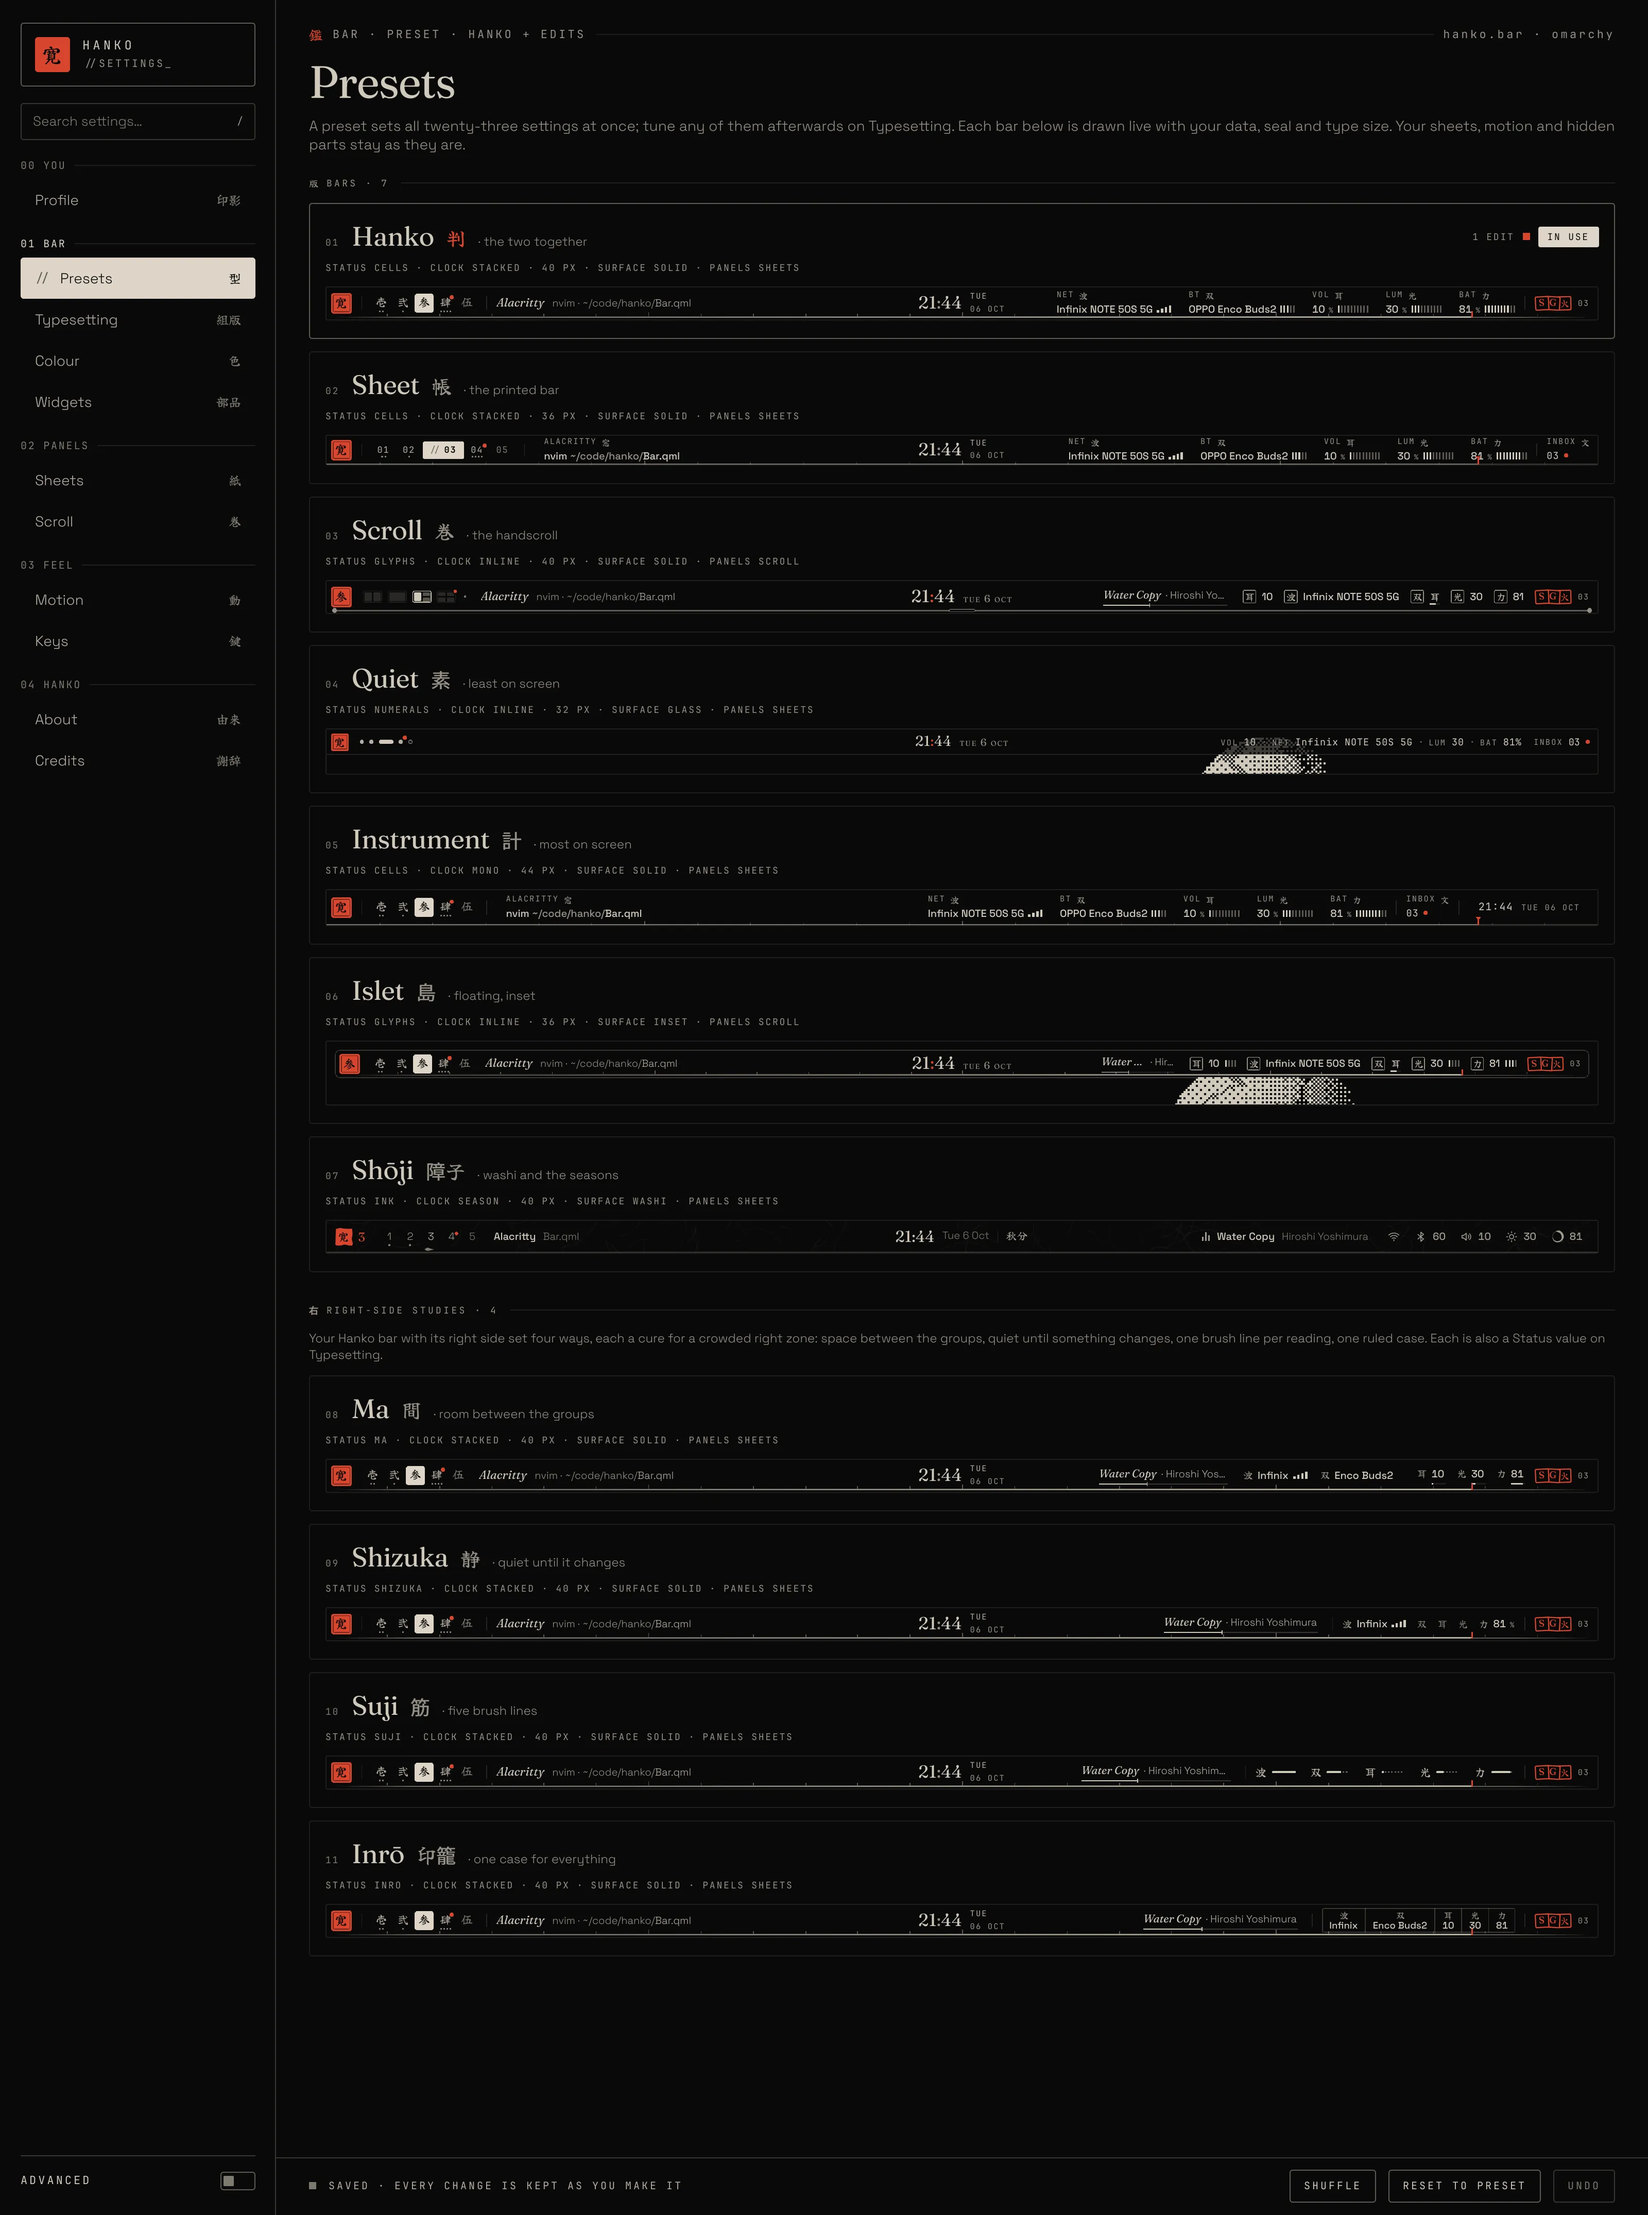
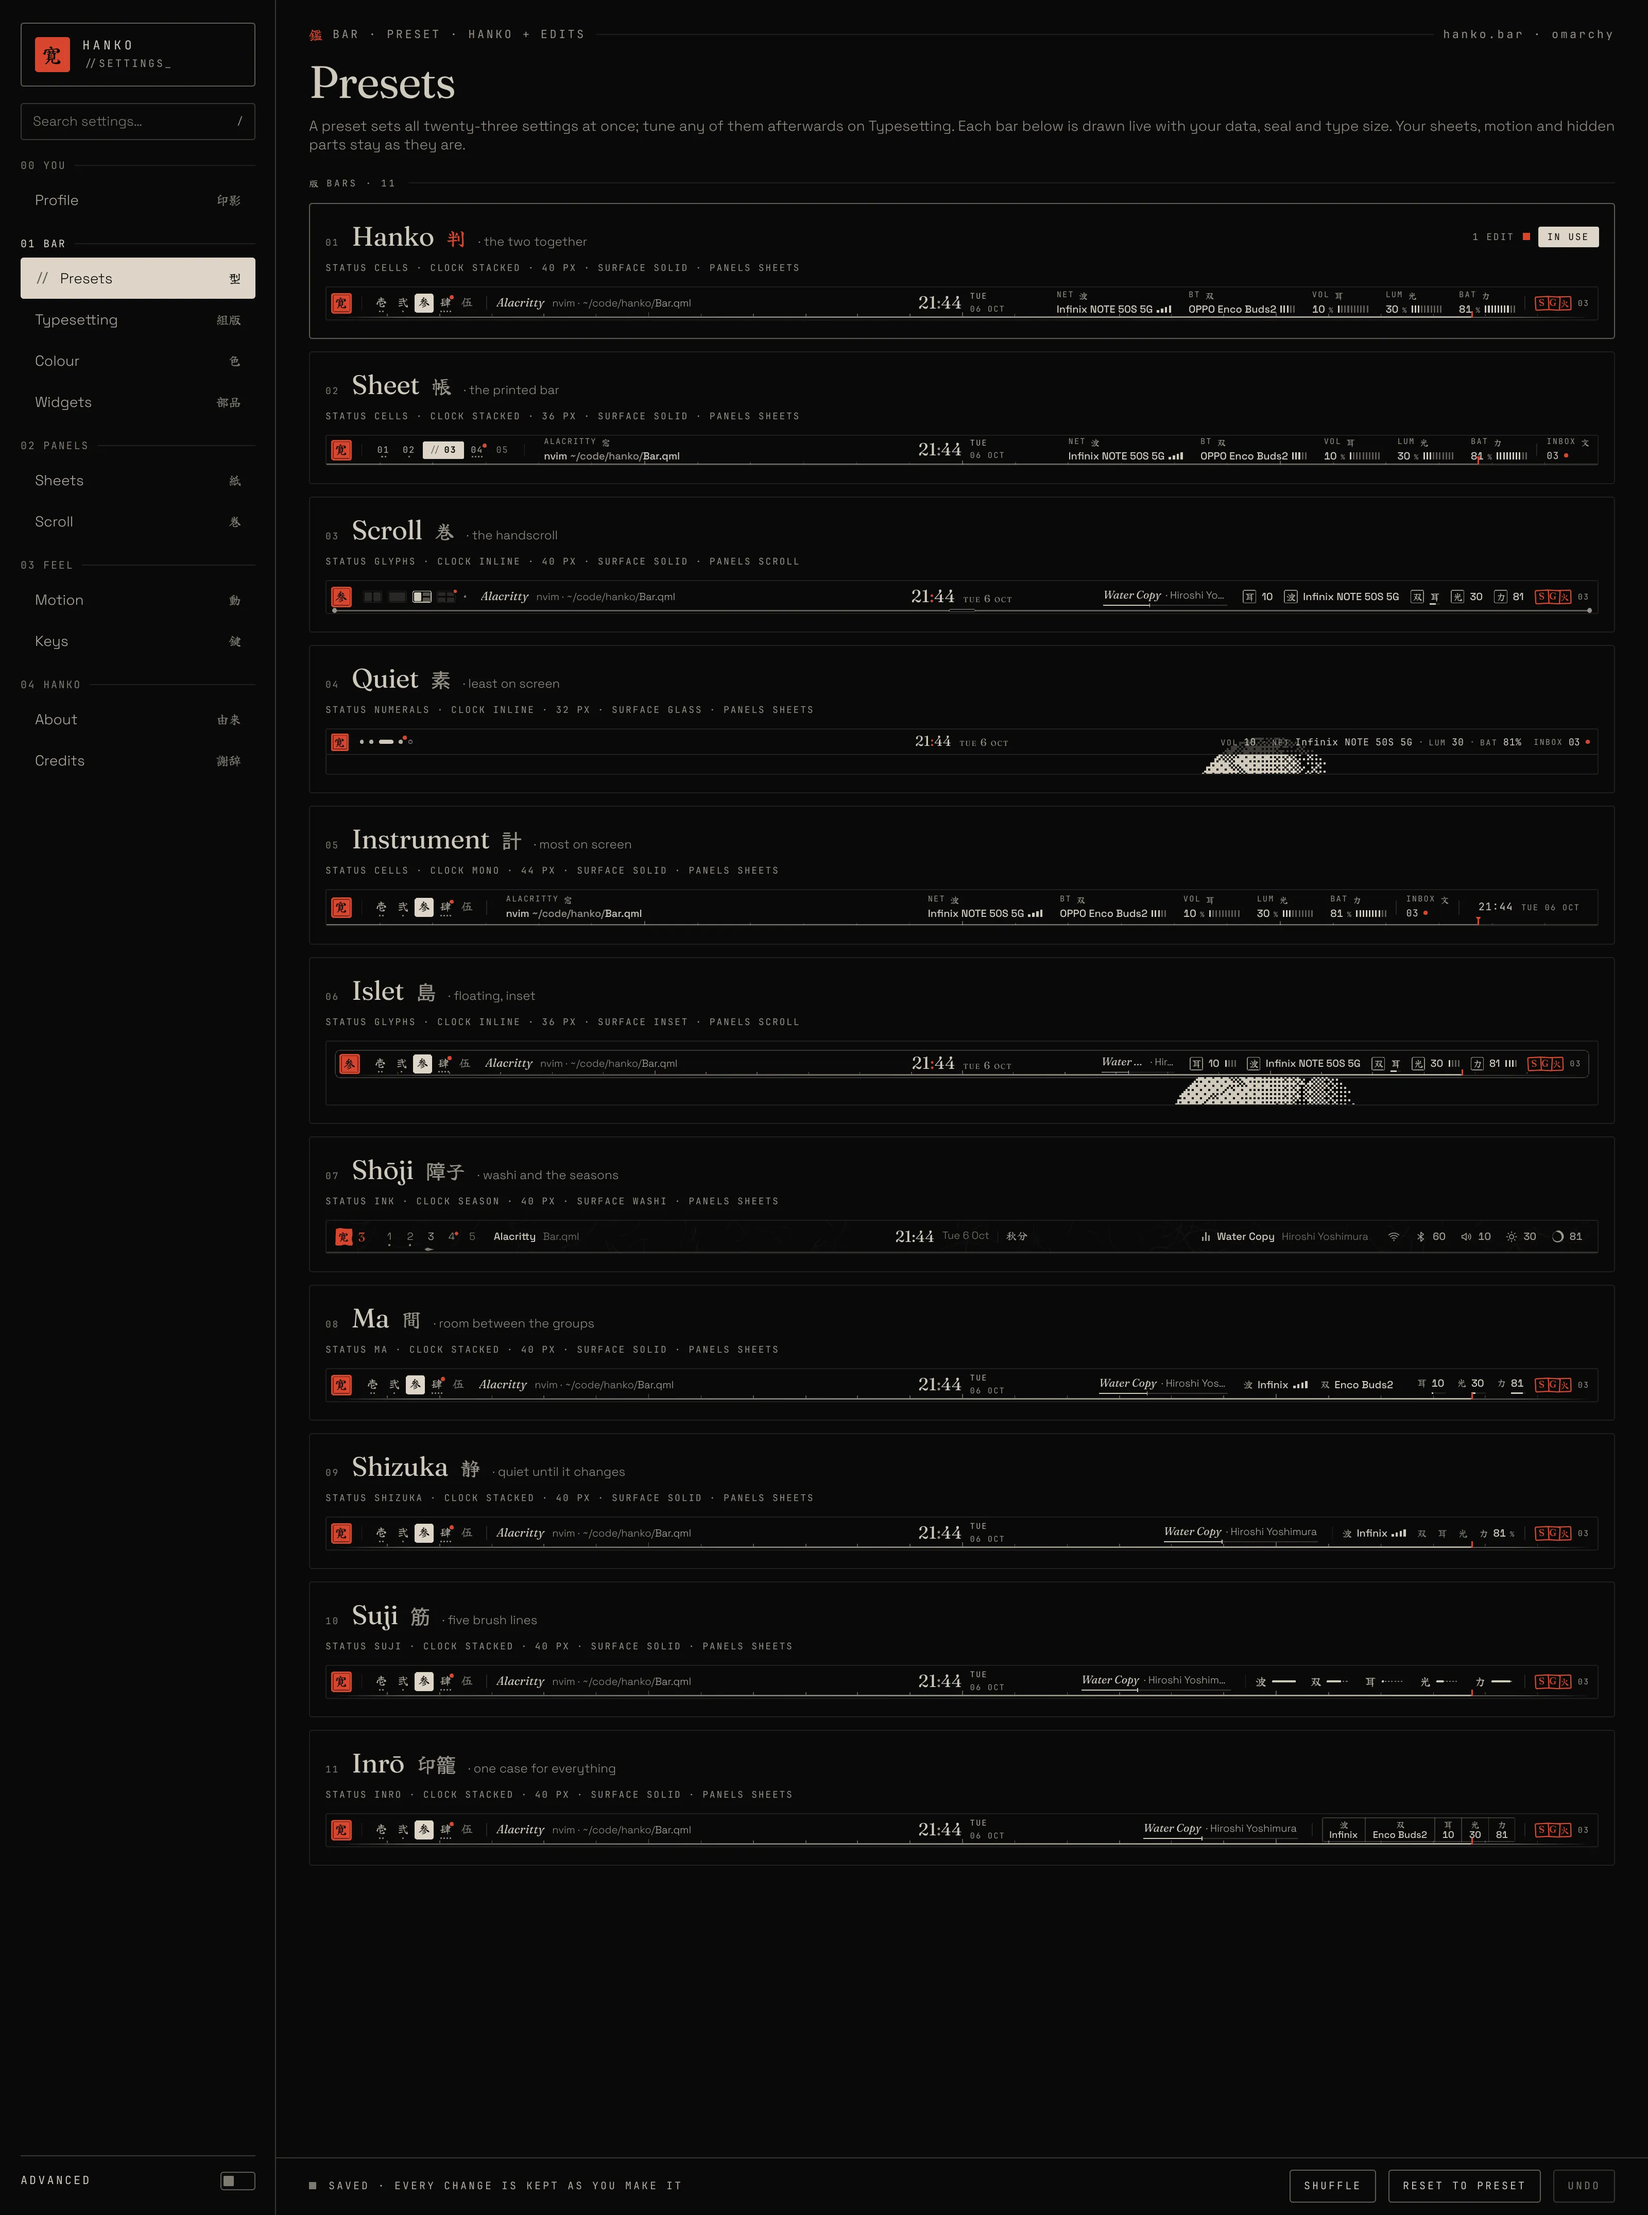
Settings › Presets: one list, without the studies' own heading
The four right-side studies follow the bars in the same list, under the one
Bars label, without a heading or a note of their own.

Changed region(s): [[0.1875, 0.5921, 0.4062, 0.8726], [0.875, 0.8102, 0.9062, 0.8414], [0.375, 0.7167, 0.4062, 0.7479]]

diff --git a/bar/settings/PresetsPage.qml b/bar/settings/PresetsPage.qml
@@ -5,8 +5,8 @@ import "../../core/Style.js" as S
 import "../../core/Settings.js" as Settings
 
 // Settings › Presets 型: every preset as a specimen, drawn live with your
-// data, in two groups (Style.js PRESET_GROUPS): the bars, then the four
-// right-side studies. A card is its number, name, kanji and blurb, the
+// data, as one list: the bars, then the four right-side studies
+// (Style.js PRESET_GROUPS gives the order and the numbering). A card is its number, name, kanji and blurb, the
 // settings that tell it apart, and the bar itself over the sample plate.
 // The one in use carries the red mark (red means you) and IN USE, with the
 // edits you made on top of it; a click on any other puts it on your bar.
@@ -31,7 +31,7 @@ Item {
     id: groups
     y: Type.px(22)
     width: parent.width
-    spacing: Type.px(30)
+    spacing: Type.px(12)
 
     Repeater {
       model: S.PRESET_GROUPS
@@ -52,18 +52,12 @@ Item {
         width: groups.width
         spacing: Type.px(12)
 
+        // One label over the whole list: the studies follow the bars
+        // without a head of their own.
         SectionLabel {
+          visible: group.index === 0
           jp: group.modelData.jp
-          text: group.modelData.title + " · " + group.shown.length
-        }
-        Text {
-          visible: group.index === 1
-          width: parent.width
-          wrapMode: Text.Wrap
-          text: "Your Hanko bar with its right side set four ways, each a cure for a crowded right zone: space between the groups, quiet until something changes, one brush line per reading, one ruled case. Each is also a Status value on Typesetting."
-          color: Ink.inkMuted
-          font.family: Type.text
-          font.pixelSize: Type.note
+          text: group.modelData.title + " · " + S.PRESET_NAMES.filter(function(n) { return Settings.presetMatches(n, root.query, S.PRESETS) }).length
         }
 
         Repeater {

diff --git a/docs/HANDOFF.md b/docs/HANDOFF.md
@@ -858,7 +858,7 @@ The first of five steps (plan below, in §10). Shōji's panels are a seventh she
 
 ### Presets 型, a page of their own ✅ (asked for: "the presets in the Typesetting tab all move to a new page named Presets, and add these 4 designs there too")
 - **`core/Settings.js`**: `RAIL` gains `presets` (Presets 型) as the first page of `01 BAR`; `pageInfo` falls back to Typesetting by key. `PRESET_KANJI` (判 帳 巻 素 計 島 障子 間 静 筋 印籠), `PRESET_FACTS` and `presetFacts(style)` (status, clock, height, surface, panels as one line), `presetMatches(name, query, PRESETS)` (name with or without the macron, kanji, blurb, any value set).
-- **`bar/settings/PresetsPage.qml`** (pure): `Style.PRESET_GROUPS` as two sections (Bars · 7, Right-side studies · 4, with a line on the studies), a card per preset: number, Fraunces name, kanji (red when in use), blurb, the facts in tracked caps, and a `PreviewBar` of `S.resolve(S.withPreset(doc, name))` laid out at 1600 px (`minDesign`) so a full bar never meets its clock, over the `Plate` only for glass and inset. In use: a red square, IN USE in bone, `N EDITS`; others: USE › on hover, a click emits `presetPicked` (the one in use ignores clicks). Filtered by the search field; "No preset matches" when nothing does.
+- **`bar/settings/PresetsPage.qml`** (pure): `Style.PRESET_GROUPS` gives the order and numbering of one list under a single label (Bars · 11; the studies' own label and note were taken out at the user's request), a card per preset: number, Fraunces name, kanji (red when in use), blurb, the facts in tracked caps, and a `PreviewBar` of `S.resolve(S.withPreset(doc, name))` laid out at 1600 px (`minDesign`) so a full bar never meets its clock, over the `Plate` only for glass and inset. In use: a red square, IN USE in bone, `N EDITS`; others: USE › on hover, a click emits `presetPicked` (the one in use ignores clicks). Filtered by the search field; "No preset matches" when nothing does.
 - **`bar/settings/PreviewBar.qml`**: the inline `PreviewBar` from SettingsPage, now a file with `barData` and `minDesign`.
 - **`SettingsPage`**: the preset grid is gone from Typesetting; in its place a preset line (PRESET Hanko 判 + N edits · ALL 11 PRESETS ›, which opens Presets). The eyebrow names the preset on both pages; the action bar shows Shuffle on Presets and Reset to preset on both. **`SettingsWindow`**: typing a search on Presets stays there (it filters the cards).
 - Harness `presets.json`, `presets-light.json` (Suji in use), `presets-narrow.json`, `presets-search.json` (`glass` leaves Quiet). Images `docs/right-side/images/12-presets-page.webp`, `13-presets-page-light.webp`. Unit tests: 114.

diff --git a/docs/ROADMAP.md b/docs/ROADMAP.md
@@ -132,7 +132,7 @@ Spec: `docs/kata/README.md` (also on `revision1`). Margin, Leaf and Shōji becom
 - ✅ **K7 · Settings › Design 意匠** (asked for without a Save button): the rail's first Bar page. Four design cards, each with its bar drawn live (Classic the Typeset bar); the mix named in a line, Back to the design and Surprise me; twelve borrow rows, each variant drawn small by its own part (`bar/settings/PartPreview.qml`), the current one ringed and a borrowed part marked; the touches (season with today's sekki, numerals, grain). The whole settings window now saves as you go: `Typeset.keep()` after every edit, `Typeset.history` and `undo()` (Ctrl+Z and the action bar's Undo), forgotten on close; Save and Revert are gone. Harness `design-settings.json`, `-light`, `-narrow`.
 - ✅ **Margin and Leaf removed** (asked for): two designs are left, Hanko and Shōji, and with them borrowing, Surprise me and the borrow rows on Settings › Design; a style.json naming Margin or Leaf loads as Hanko and a saved `borrow` is ignored. Shōji renders exactly as before.
 - ✅ **The right side, four ways** (asked for: "the right side looks too cramped; research and come up with a better design with a Japanese touch", then "add all"): four `status` values and four presets on the Hanko bar, Ma 間 (groups held apart by space), Shizuka 静 (quiet until it changes), Suji 筋 (one brush line per reading) and Inrō 印籠 (one ruled case), from six study sheets and their research in [right-side/](right-side/README.md).
-- ✅ **Presets 型, a page of their own** (asked for: "move the presets from Typesetting to a new Presets page, with the 4 new designs there too"): the first page of `01 BAR`, every preset a numbered specimen with its kanji, blurb, telling settings and its bar drawn live, in two groups (Bars, Right-side studies), filtered by search, with Shuffle and Reset; Typesetting keeps a one-line link to it.
+- ✅ **Presets 型, a page of their own** (asked for: "move the presets from Typesetting to a new Presets page, with the 4 new designs there too"): the first page of `01 BAR`, every preset a numbered specimen with its kanji, blurb, telling settings and its bar drawn live, in one list (the bars, then the studies), filtered by search, with Shuffle and Reset; Typesetting keeps a one-line link to it.
 
 ## Dev loop
 

diff --git a/docs/COMPONENTS.md b/docs/COMPONENTS.md
@@ -541,7 +541,7 @@ There is a search field at the top and an **Advanced** switch at the foot (which
 
 **Motion 動** holds one switch outside the twenty-three settings, `motion`: `paper` (default) moves like Scroll's motion sheet, `still` cuts every transition to its end frame. Omarchy's own animation switch, off, makes Hanko still too. The page lists every timing.
 
-**Presets 型** shows every preset as a specimen, drawn live with your data, seal glyph, type size and hidden parts, in two groups: *Bars* (Hanko, Sheet, Scroll, Quiet, Instrument, Islet, Shōji) and *Right-side studies* (Ma, Shizuka, Suji, Inrō). Each card is numbered 01–11 and gives the name, its kanji (判 帳 巻 素 計 島 障子 間 静 筋 印籠), a blurb, the five settings that tell it apart (status, clock, height, surface, panels) and the bar itself, at a screen's width scaled to the card, over the sample plate where glass or inset lets it through. The preset in use carries the red mark and IN USE, with how many edits sit on top of it; pointing at another shows USE ›, and a click puts it on your bar. The search field filters the cards (by name, kanji, blurb or any value they set). The action bar adds **Shuffle** and **Reset to preset**.
+**Presets 型** shows every preset as a specimen, drawn live with your data, seal glyph, type size and hidden parts, as one list under a single *Bars* label: Hanko, Sheet, Scroll, Quiet, Instrument, Islet, Shōji, then the right-side studies Ma, Shizuka, Suji, Inrō. Each card is numbered 01–11 and gives the name, its kanji (判 帳 巻 素 計 島 障子 間 静 筋 印籠), a blurb, the five settings that tell it apart (status, clock, height, surface, panels) and the bar itself, at a screen's width scaled to the card, over the sample plate where glass or inset lets it through. The preset in use carries the red mark and IN USE, with how many edits sit on top of it; pointing at another shows USE ›, and a click puts it on your bar. The search field filters the cards (by name, kanji, blurb or any value they set). The action bar adds **Shuffle** and **Reset to preset**.
 
 ![Presets](right-side/images/12-presets-page.webp)
 
